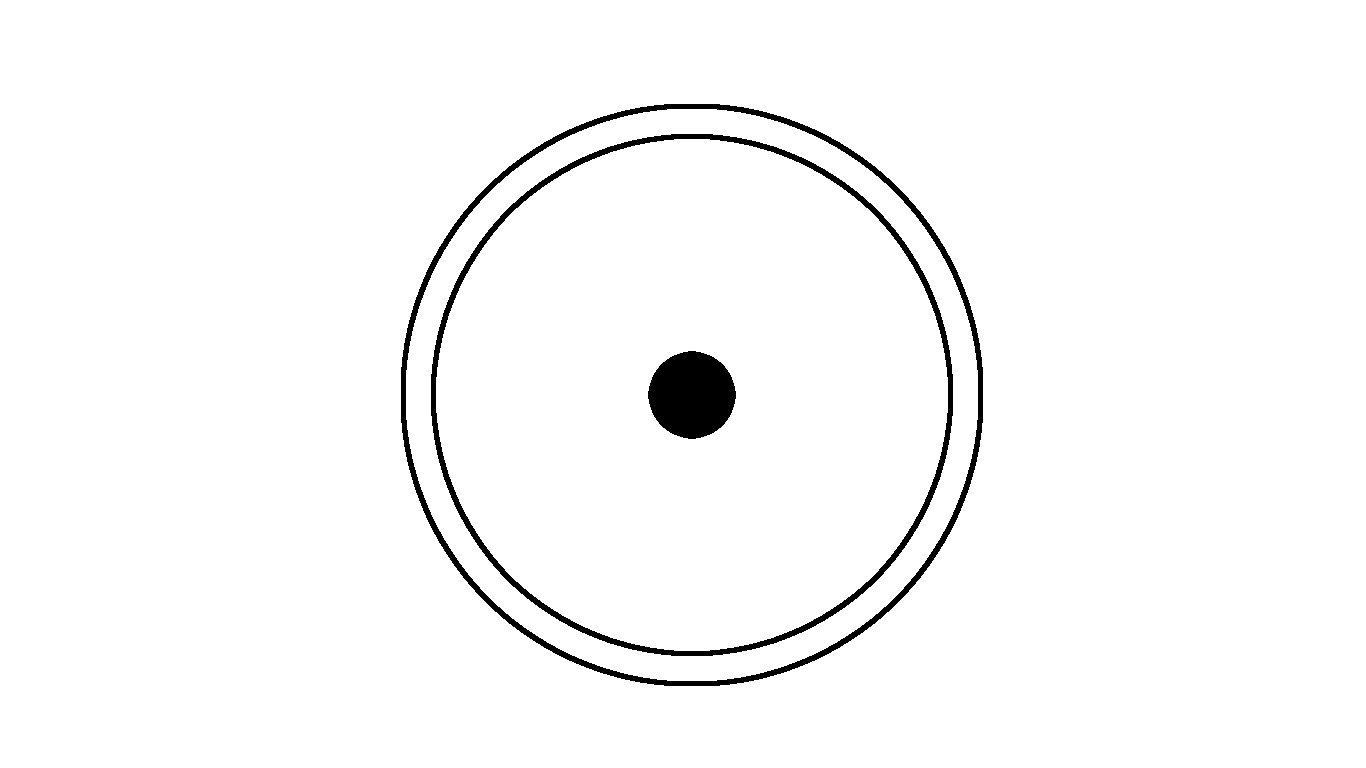
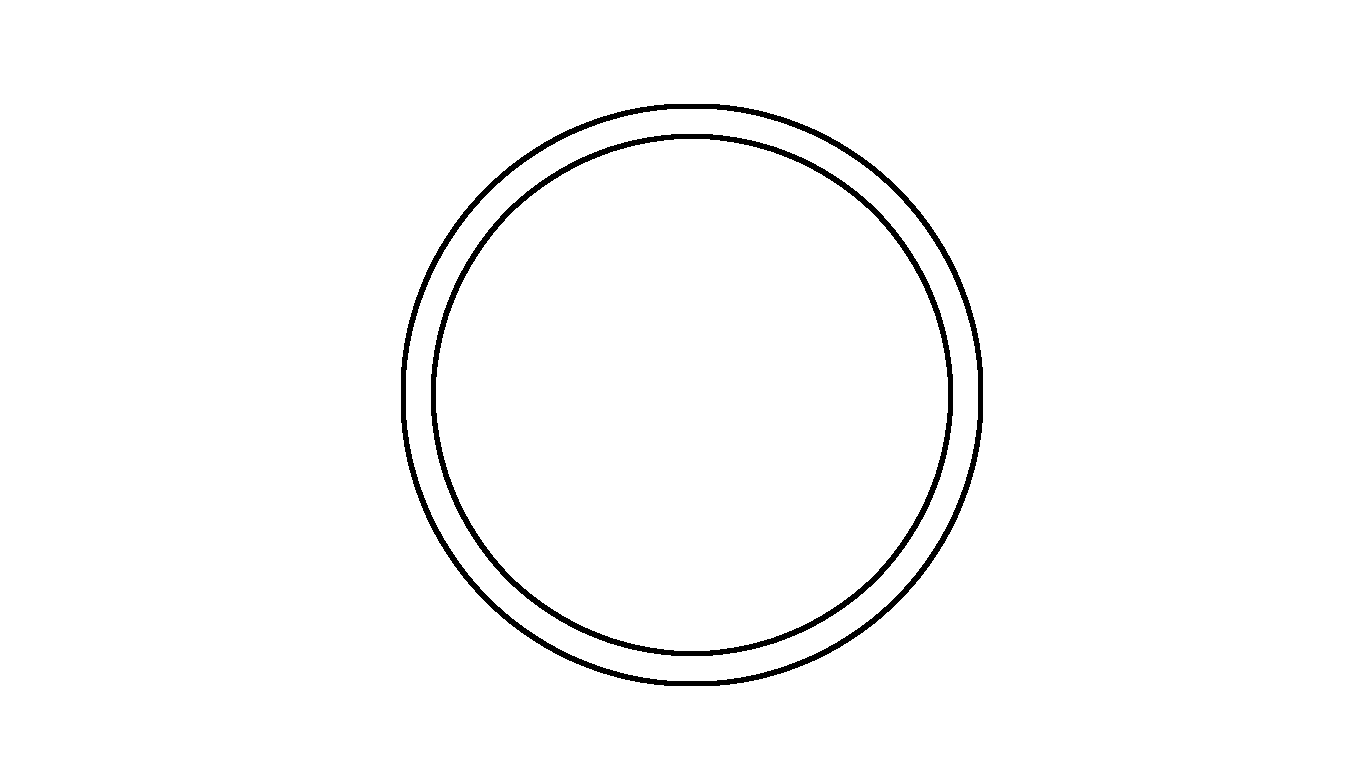
both arrows working

Changed region(s): [[0.4612, 0.4375, 0.5534, 0.5938]]

diff --git a/Assets/scripts/ArrowGenerator.cs b/Assets/scripts/ArrowGenerator.cs
@@ -10,12 +10,12 @@ public class ArrowGenerator : MonoBehaviour
     public float tipLength;
     public float tipWidth;
 
-    [System.NonSerialized]
-    public List<Vector3> verticesList;
-    [System.NonSerialized]
-    public List<int> trianglesList;
+    private List<Vector3> verticesList;
+    private List<int> trianglesList;
 
     Mesh mesh;
+
+    public float circleRadius = 0;
 
     void Start()
     {
@@ -33,54 +33,61 @@ public class ArrowGenerator : MonoBehaviour
     {
         float angle = Mathf.Atan2(direction.y, direction.x) * Mathf.Rad2Deg;
         this.transform.rotation = Quaternion.Euler(0, 0, angle);
+
+        // Calculate the new origin based on the circle's radius and the angle
+        Vector3 newOrigin = new Vector3(Mathf.Cos(angle * Mathf.Deg2Rad), Mathf.Sin(angle * Mathf.Deg2Rad), 0) * circleRadius;
+        this.transform.localPosition = newOrigin;  // Move the GameObject relative to its parent
     }
 
     public void SetDirectionRotation(float angle)
     {
         this.transform.rotation = Quaternion.Euler(0, 0, angle);
+        // Calculate the new origin based on the circle's radius and the angle
+        Vector3 newOrigin = new Vector3(Mathf.Cos(angle * Mathf.Deg2Rad), Mathf.Sin(angle * Mathf.Deg2Rad), 0) * circleRadius;
+        this.transform.localPosition = newOrigin;  // Move the GameObject relative to its parent
     }
 
     //arrow is generated starting at Vector3.zero
     //arrow is generated facing right, towards radian 0.
-    void GenerateArrow()
+    // Overloaded GenerateArrow to accept an origin point
+    private void GenerateArrow()
     {
-        //setup
         verticesList = new List<Vector3>();
         trianglesList = new List<int>();
 
-        //stem setup
-        Vector3 stemOrigin = Vector3.zero;
+        // Stem setup at local origin (center of GameObject)
+        Vector3 stemOrigin = Vector3.zero;  // Local origin
         float stemHalfWidth = stemWidth / 2f;
-        //Stem points
+
+        // Stem points
         verticesList.Add(stemOrigin + (stemHalfWidth * Vector3.down));
         verticesList.Add(stemOrigin + (stemHalfWidth * Vector3.up));
         verticesList.Add(verticesList[0] + (stemLength * Vector3.right));
         verticesList.Add(verticesList[1] + (stemLength * Vector3.right));
 
-        //Stem triangles
+        // Stem triangles
         trianglesList.Add(0);
         trianglesList.Add(1);
         trianglesList.Add(3);
-
         trianglesList.Add(0);
         trianglesList.Add(3);
         trianglesList.Add(2);
 
-        //tip setup
-        Vector3 tipOrigin = stemLength * Vector3.right;
+        // Tip setup
+        Vector3 tipOrigin = stemOrigin + (stemLength * Vector3.right);
         float tipHalfWidth = tipWidth / 2;
 
-        //tip points
+        // Tip points
         verticesList.Add(tipOrigin + (tipHalfWidth * Vector3.up));
         verticesList.Add(tipOrigin + (tipHalfWidth * Vector3.down));
         verticesList.Add(tipOrigin + (tipLength * Vector3.right));
 
-        //tip triangle
+        // Tip triangle
         trianglesList.Add(4);
         trianglesList.Add(6);
         trianglesList.Add(5);
 
-        //assign lists to mesh.
+        // Assign lists to mesh
         mesh.vertices = verticesList.ToArray();
         mesh.triangles = trianglesList.ToArray();
     }

diff --git a/Assets/scripts/Ship.cs b/Assets/scripts/Ship.cs
@@ -86,9 +86,19 @@ public class Ship : MonoBehaviour
         if (currentMap == map)
         {
             navMapVisual.SetActive(true);
-            rotationalNavArrow.SetDirectionVelocity(rb.velocity);
+            if (rb.velocity.magnitude > .1)
+            {
+                velocityNavArrow.gameObject.SetActive(true);
+                velocityNavArrow.SetDirectionVelocity(rb.velocity);
+            }
+            else
+            {
+                velocityNavArrow.gameObject.SetActive(false);
+            }
+
+            
             float angle = transform.eulerAngles.z - 90 ; // Get the z-axis rotation of the ship
-            velocityNavArrow.SetDirectionRotation(angle);
+            rotationalNavArrow.SetDirectionRotation(angle);
         }
         else
         {
